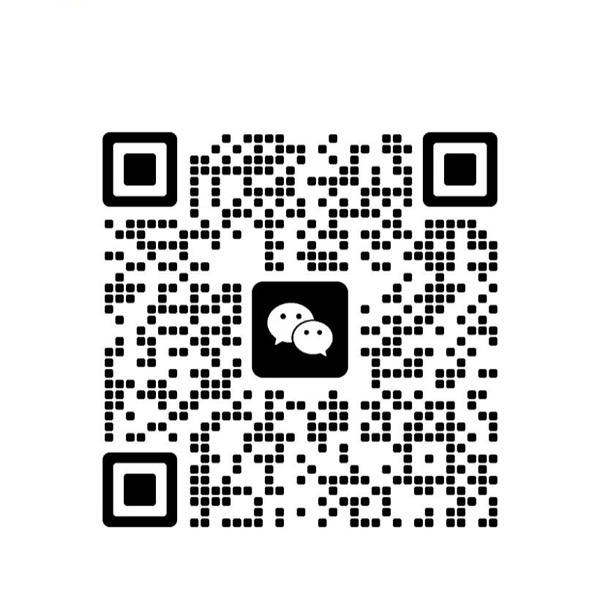
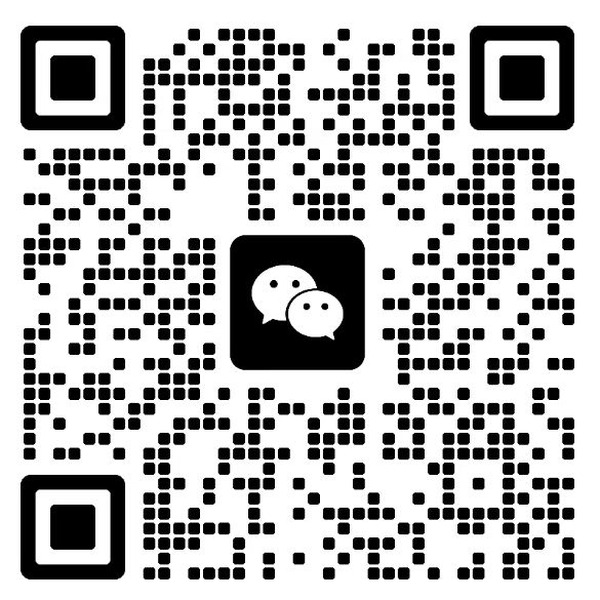
作者区二维码裁为纯码；README 去除授权表述（致谢保留）

diff --git a/README.md b/README.md
@@ -1,4 +1,4 @@
-> 🤝 **本项目由 [颜](https://github.com/yan9651688) × 蓝梦（[lanmengSakura](https://github.com/lanmengSakura)）联合打造** —— 排版引擎与产品体验来自颜，动效组件库来自蓝梦的 wechat-motion-layout-studio（已获授权）。
+> 🤝 **本项目由 [颜](https://github.com/yan9651688) × 蓝梦（[lanmengSakura](https://github.com/lanmengSakura)）联合打造** —— 排版引擎与产品体验来自颜，动效组件库来自蓝梦的 wechat-motion-layout-studio。
 
 <div align="center">
 
@@ -53,7 +53,7 @@
 
 ## ✨ 动效组件库
 
-75 个纯 SMIL 动画 SVG（15 套风格 × 5 角色），`motion/` 目录整库分发，已获作者授权：
+75 个纯 SMIL 动画 SVG（15 套风格 × 5 角色），`motion/` 目录整库分发：
 
 | 角色 | 说明 |
 |------|------|
@@ -128,8 +128,8 @@ docker build -t yituo-hub . && docker run -d -p 80:80 yituo-hub
 ## 🙏 致谢
 
 - [gzh-design-skill](https://github.com/isjiamu/gzh-design-skill)（AGPL-3.0，甲木 × 摸鱼小李）——本项目的排版工作流、平台红线标准与「经典复刻」组主题的配色来源
-- [wechat-motion-layout-studio](https://github.com/lanmengSakura/wechat-motion-layout-studio)（蓝梦）——动效组件库与「动效系列」主题的风格来源，已获作者授权
+- [wechat-motion-layout-studio](https://github.com/lanmengSakura/wechat-motion-layout-studio)（蓝梦）——动效组件库与「动效系列」主题的风格来源
 
 ## 📄 License
 
-[AGPL-3.0](LICENSE)。基于 gzh-design-skill 二次开发，修改与分发须遵循同一协议并保留原项目署名；`motion/` 动效库版权归蓝梦所有，经授权随本项目分发。
+[AGPL-3.0](LICENSE)。基于 gzh-design-skill 二次开发，修改与分发须遵循同一协议并保留原项目署名；`motion/` 动效库版权归蓝梦所有。
